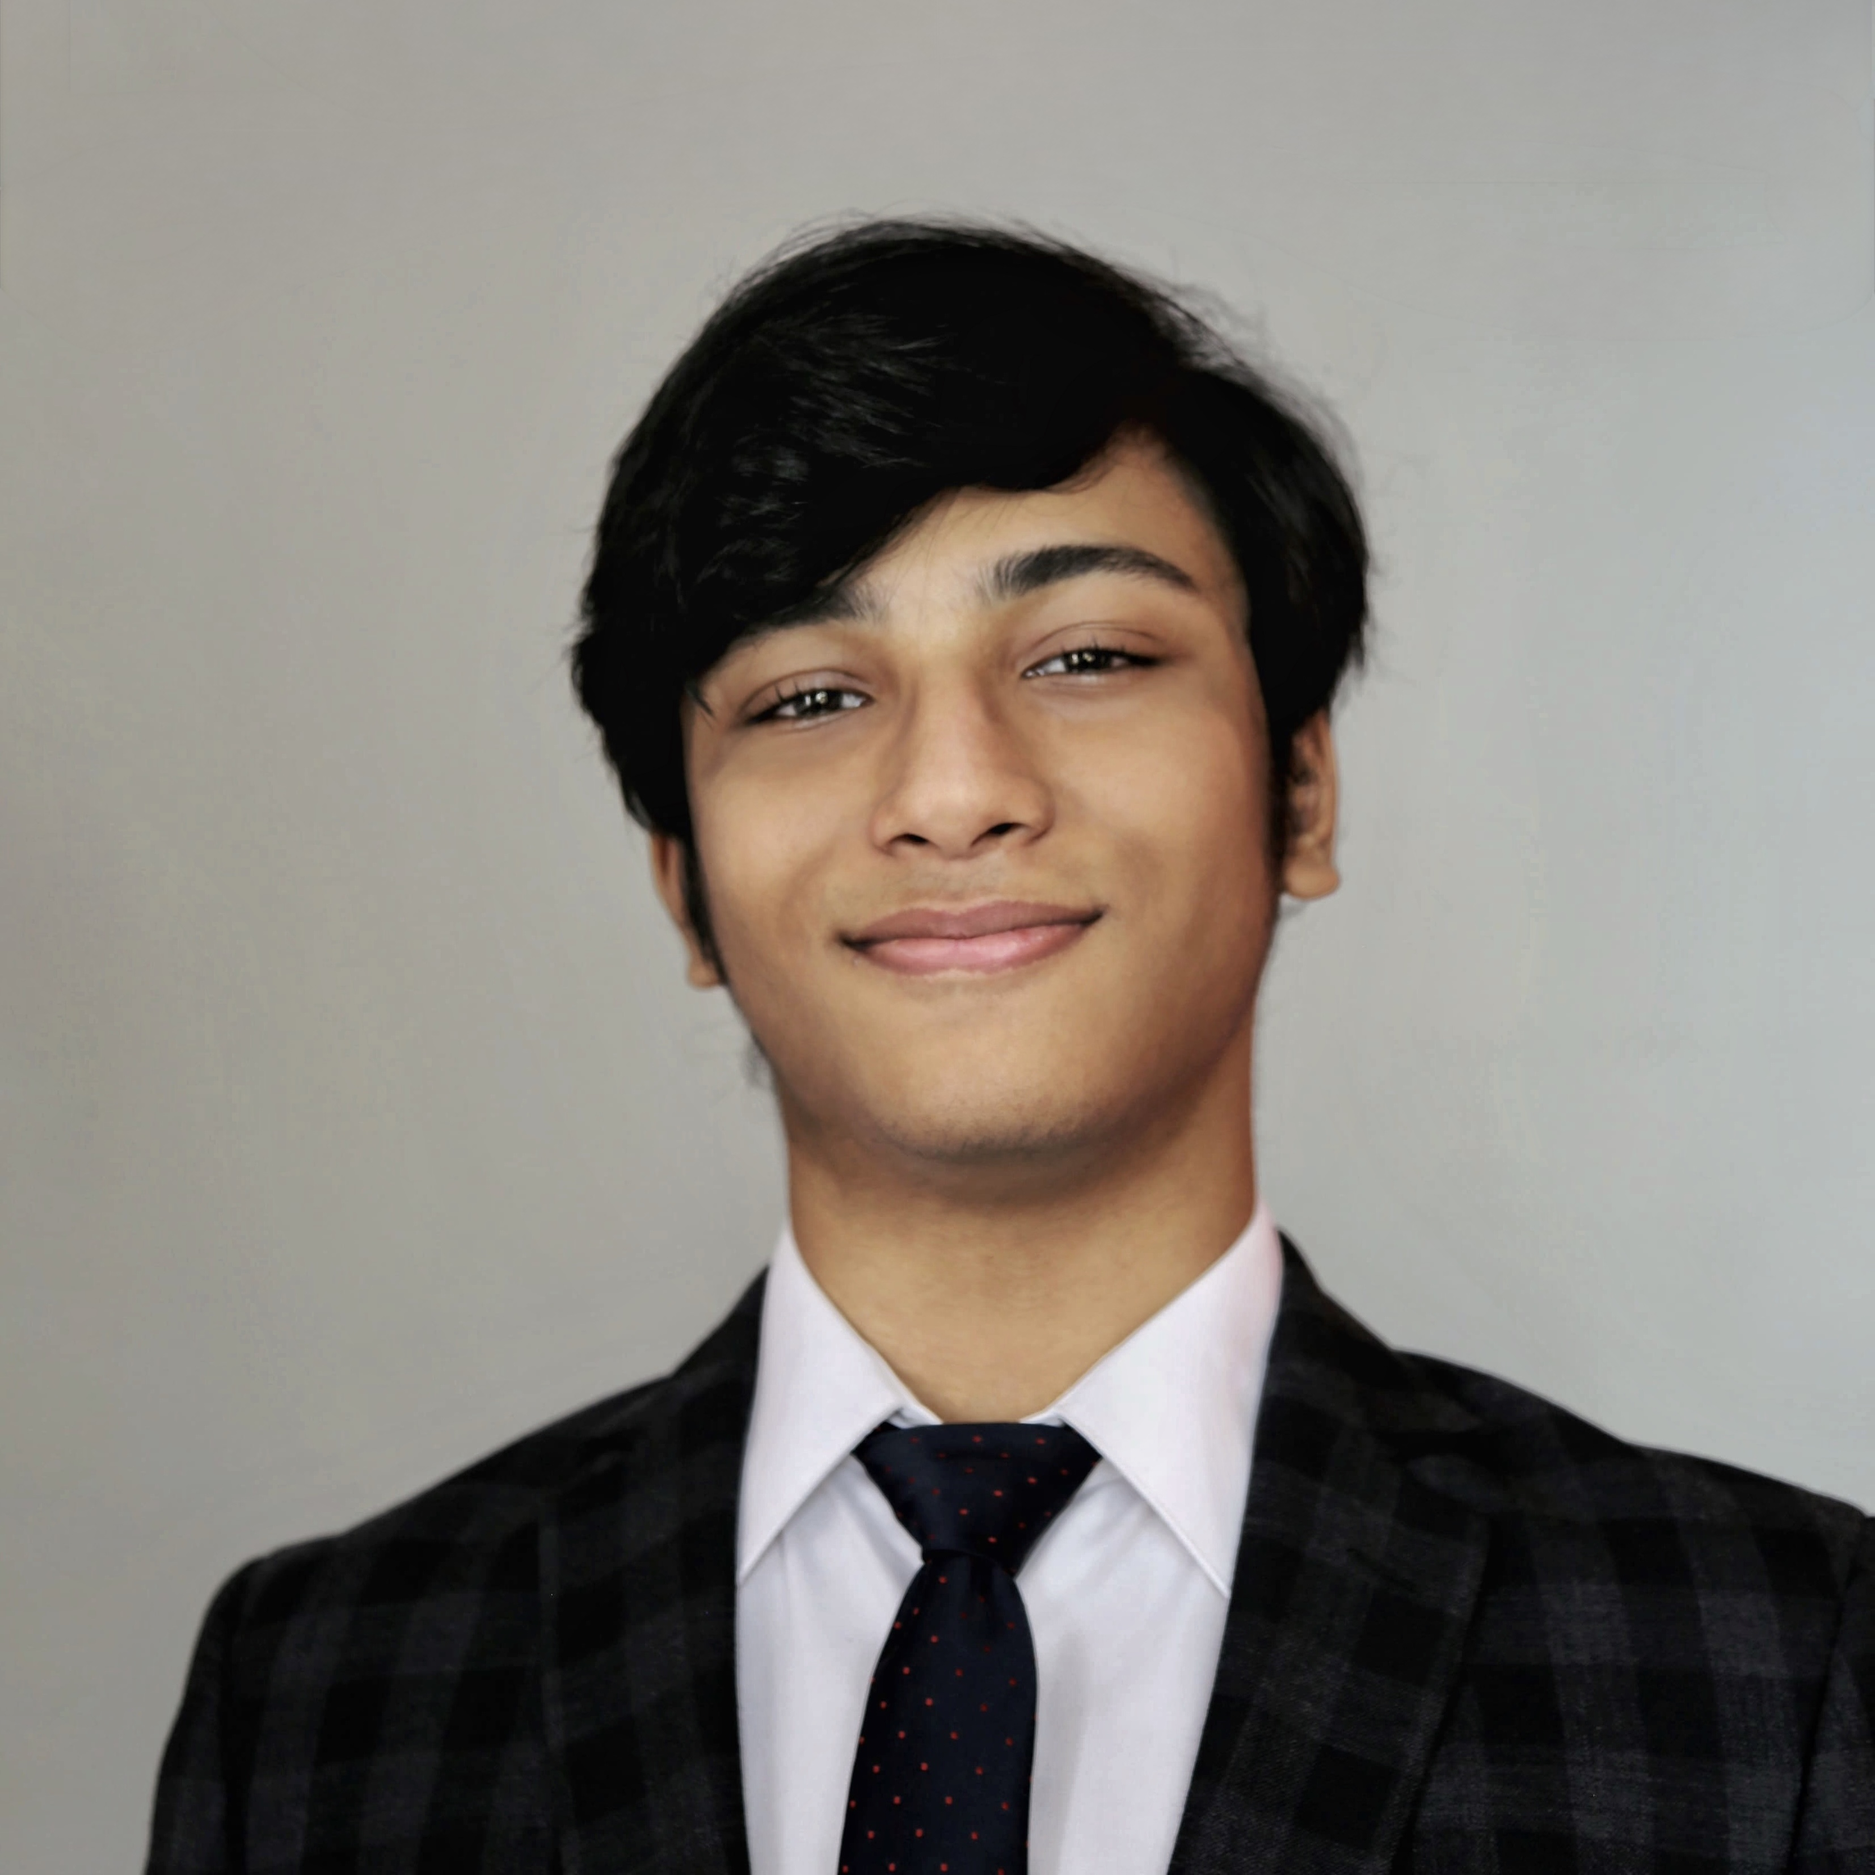
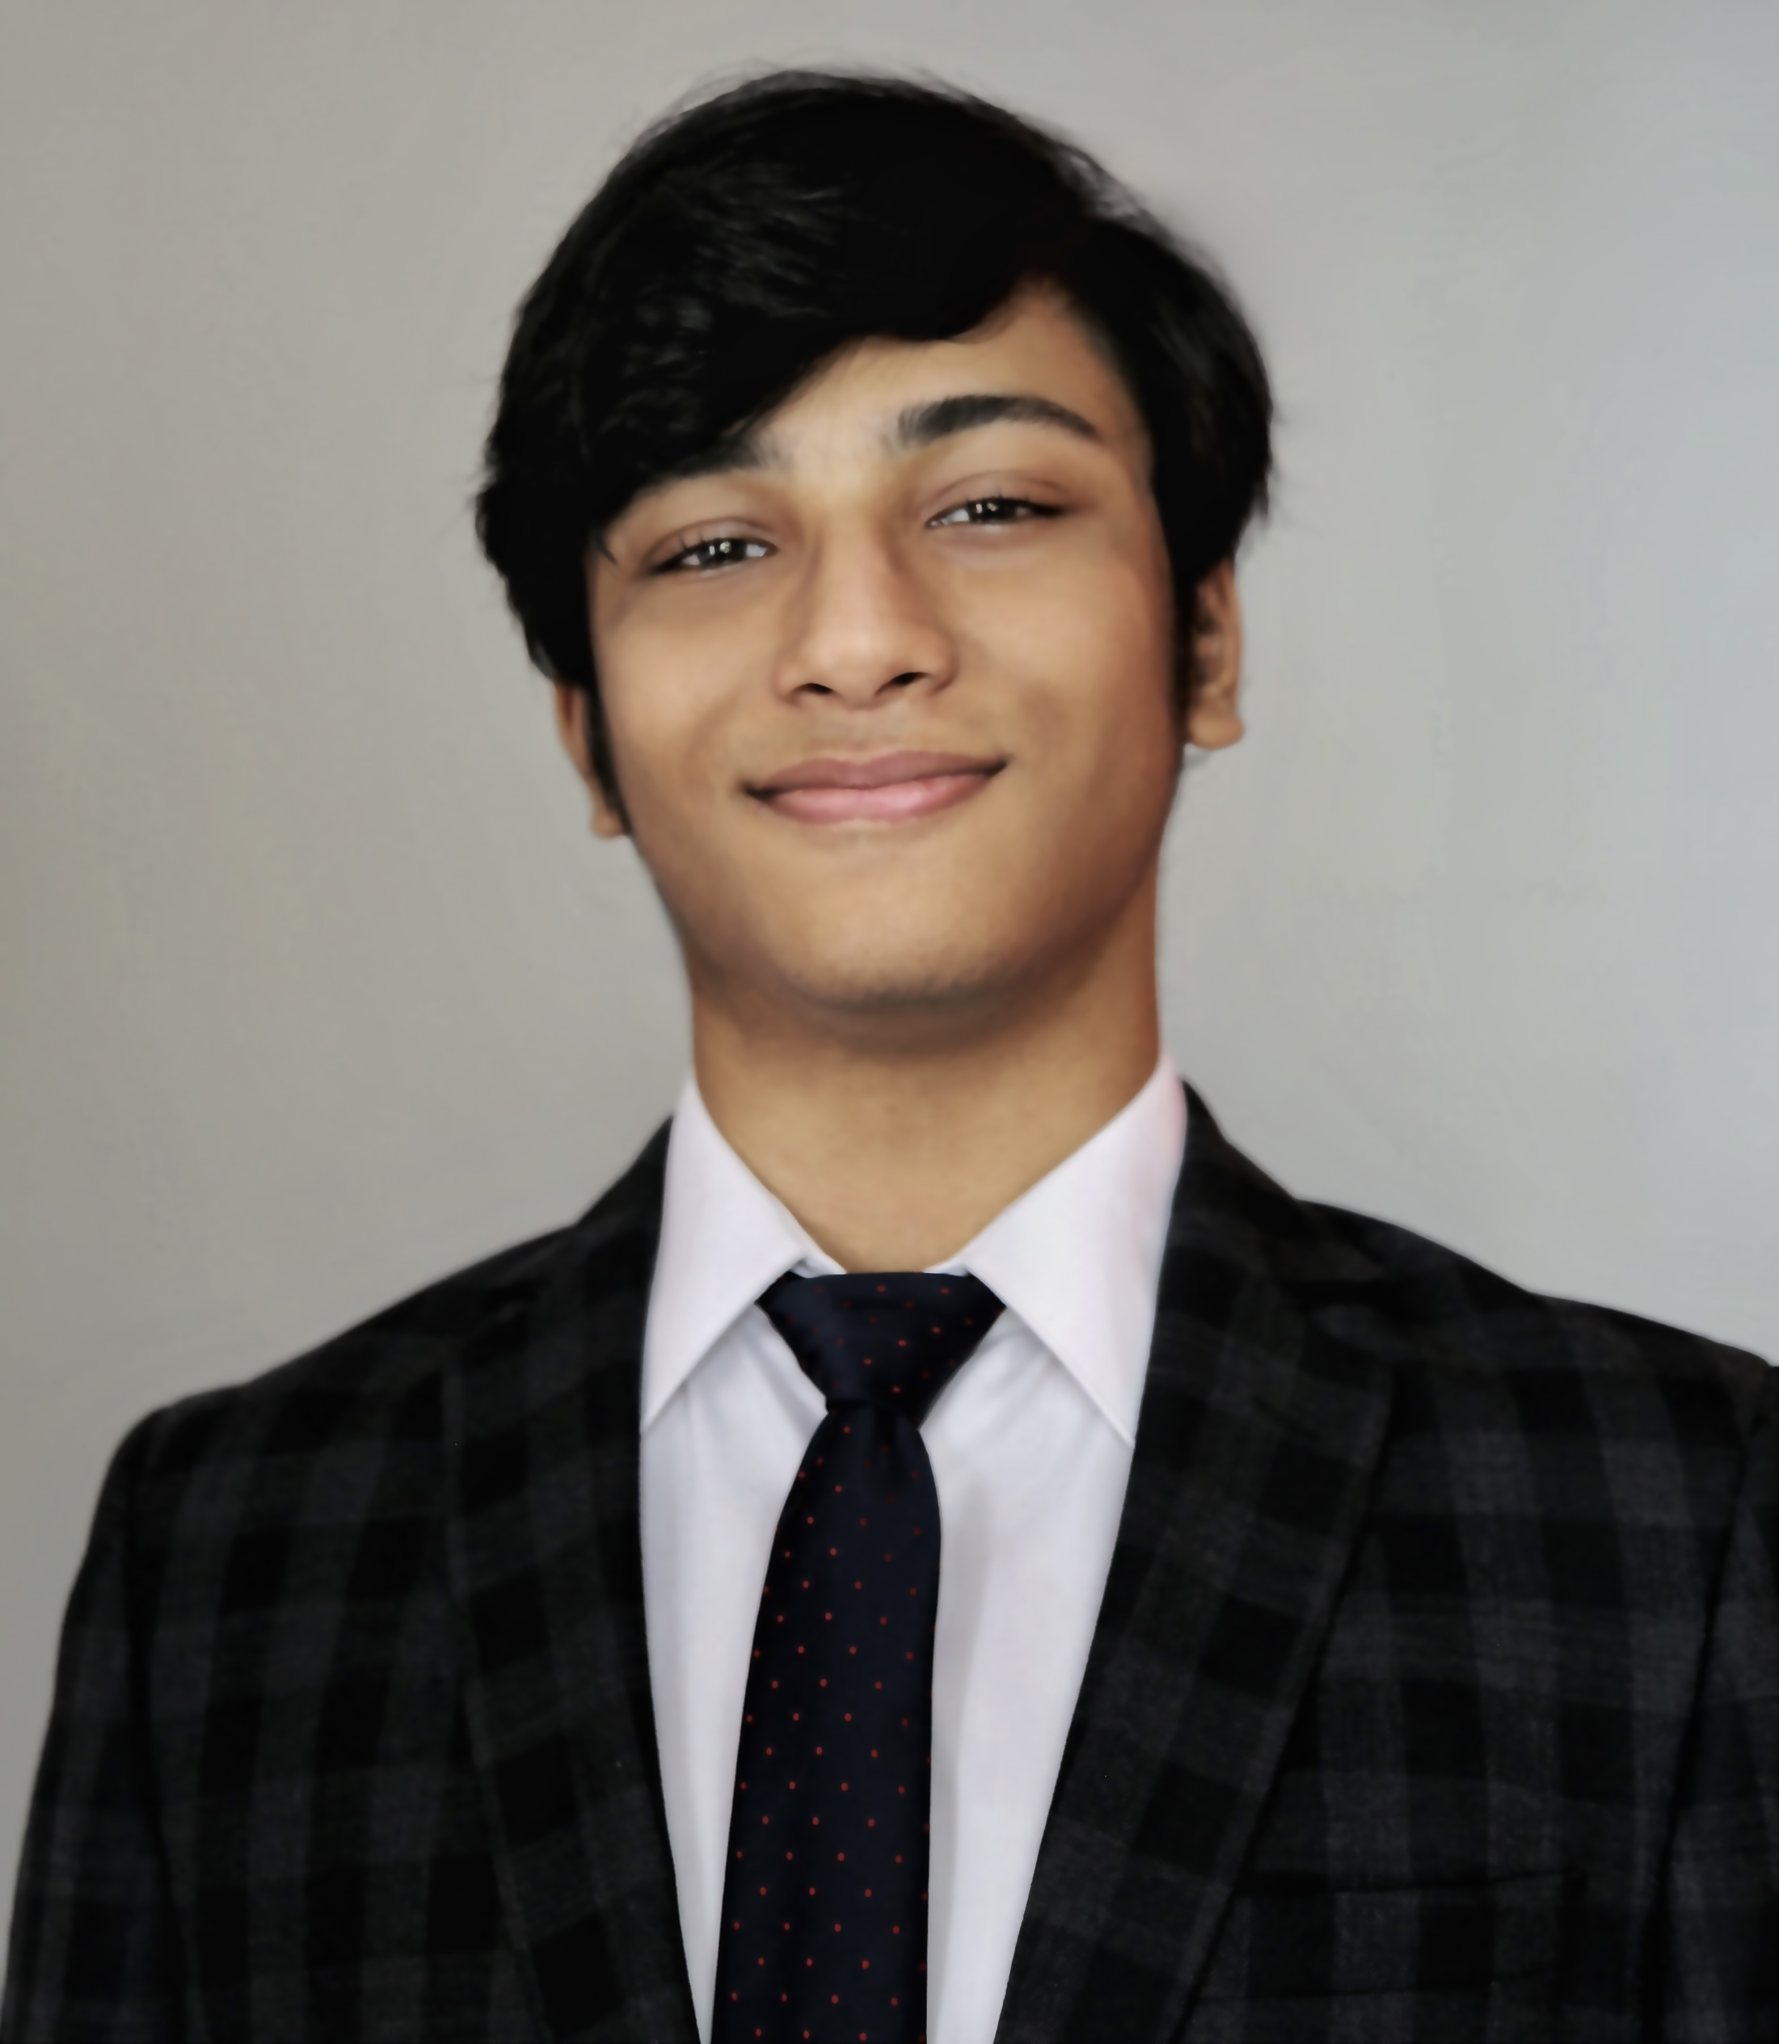
Commit

diff --git a/index.html b/index.html
@@ -81,6 +81,9 @@
 <section id="panel-profile" role="tabpanel" aria-labelledby="tab-profile" class="tabpanel is-active" tabindex="0">
 <div class="container">
     <section class="hero-grid" aria-labelledby="hero-title">
+        <aside class="hero-photo" aria-label="Portrait of Aayan Haider">
+            <img src="assets/images/profile.jpg" alt="Aayan Haider">
+        </aside>
         <div class="hero-content">
             <p class="eyebrow">Computer Science · Mathematics · Research</p>
             <h1 id="hero-title">Aayan Haider</h1>
@@ -92,14 +95,6 @@
                 <a href="mailto:aayanhaider112358@gmail.com">Email</a>
             </div>
         </div>
-        <aside class="profile-card" aria-label="Academic background">
-            <div class="profile-photo"><img src="assets/images/profile.jpg" alt="Aayan Haider"></div>
-            <div class="profile-section">
-                <span class="profile-label">Academic Background</span>
-                <p>B.Sc. Computer Science<br>Double Major in Mathematics</p>
-                <a href="#education" class="profile-link" data-tab="tab-education">View education →</a>
-            </div>
-        </aside>
     </section>
 
     <section class="landscape-section" aria-labelledby="landscape-title">
@@ -156,7 +151,7 @@
     <section class="selected-work">
         <div class="section-heading-row"><div><p class="eyebrow">Featured Work</p><h2>Selected Projects</h2></div><a href="#projects" class="section-link" data-tab="tab-projects">All projects →</a></div>
         <div class="selected-grid">
-            <article class="selected-card"><span class="work-label">2026</span><h3>Hierarchical Recursive Causal Feature Selection</h3><p>For Explainable Schizophrenia Prediction from DNA Methylation</p><div class="tag-list"><span>ML</span><span>Causal ML</span><span>Bioinformatics</span></div></article>
+            <article class="selected-card"><span class="work-label">2026</span><h3>Hierarchical Recursive Causal Feature Selection</h3><p>For Explainable Schizophrenia Prediction from DNA Methylation</p><div class="tag-list"><span>ML</span><span>Causal ML</span><span>Bioinformatics</span><span>Explainable AI</span></div></article>
         </div>
     </section>
 
@@ -228,7 +223,7 @@
 
 <section id="panel-education" role="tabpanel" aria-labelledby="tab-education" class="tabpanel" tabindex="0" hidden>
 <div class="container"><div class="section-heading"><div><p class="eyebrow">Education</p><h2>Academic Timeline</h2></div></div><div class="timeline">
-<article class="timeline-item"><div class="timeline-date">2022 — 2026</div><div class="timeline-content"><h3>B.Sc. in Computer Science</h3><p class="institution">BRAC University<p>Dhaka, Bangladesh</p><p><strong>Majors:</strong> Computer Science and Mathematics.</p><p> <strong>CGPA:</strong> 3.91 / 4.00.</p><p><strong>Undergraduate thesis title:</strong> <em>From DMRs to Disease Diagnosis: A Causal and Inferential Framework for Schizophrenia Using DNA Methylation</em></p><p><strong>Relevant coursework:</strong> Algorithms, Data Structures, Artificial Intelligence, Numerical Methods, Computer Graphics, Database Systems, Statistics \& Probability, Linear Algebra, Real Analysis, Graph Theory, Dynamical Systems, Numerical Analysis</p></div></article>
+<article class="timeline-item"><div class="timeline-date">2022 — 2026</div><div class="timeline-content"><h3>B.Sc. in Computer Science</h3><p class="institution">BRAC University<p>Dhaka, Bangladesh</p><p><strong>Majors:</strong> Computer Science and Mathematics.</p><p> <strong>CGPA:</strong> 3.91 / 4.00.</p><p><strong>Undergraduate thesis title:</strong> <em>From DMRs to Disease Diagnosis: A Causal and Inferential Framework for Schizophrenia Using DNA Methylation</em></p><p><strong>Relevant coursework:</strong> Algorithms, Data Structures, Artificial Intelligence, Numerical Methods, Computer Graphics, Database Systems, Statistics & Probability, Linear Algebra, Real Analysis, Graph Theory, Dynamical Systems, Numerical Analysis</p></div></article>
 <article class="timeline-item"><div class="timeline-date">2020 — 2022</div><div class="timeline-content"><h3>Cambridge International AS & A Level</h3><p class="institution">Scholastica</p><p>Dhaka, Bangladesh</p><p><strong>GPA</strong> 4.00 / 4.00</p></div></article>
 <article class="timeline-item"><div class="timeline-date">2018 — 2020</div><div class="timeline-content"><h3>Cambridge International O Level</h3><p class="institution">Scholastica</p><p>Dhaka, Bangladesh</p><p><strong>GPA</strong> 4.00 / 4.00</strong></p></div></article>
 </div></div>

diff --git a/assets/global/style.css b/assets/global/style.css
@@ -174,21 +174,40 @@ html.is-scrolling ::-webkit-scrollbar-thumb { background: var(--olive); }
 }
 
 
-.panels { padding: 72px 0 110px; }
+.panels { padding: 25px 0 110px; }
 .tabpanel { display: none; opacity: 1; transition: opacity .15s ease; }
 .tabpanel.is-active { display: block; }
 .tabpanel.is-fading { opacity: 0; }
 
-.hero-grid { display: grid; grid-template-columns: minmax(0, 1.45fr) minmax(260px, .7fr); align-items: center; gap: 90px; min-height: 620px; padding: 30px 0 95px; }
+.hero-grid {
+    display: grid;
+    grid-template-columns: 360px minmax(0, 600px);
+    align-items: center;
+    gap: 50px;
+
+    width: fit-content;
+    max-width: 100%;
+    margin: 0 auto;
+
+    min-height: 620px;
+    padding: 30px 0 95px;
+}
 .hero-content h1 { color: var(--ink); font-size: clamp(3.2rem, 7vw, 6.1rem); font-weight: 400; letter-spacing: -.065em; line-height: .94; white-space: nowrap; margin-bottom: 30px; }
 .hero-description { max-width: 650px; color: var(--muted); font-size: 1rem; line-height: 1.85; }
 .social-links { display: flex; flex-wrap: wrap; gap: 24px; margin-top: 27px; }
 .social-links a { color: var(--muted); font-size: .74rem; border-bottom: 1px solid transparent; transition: color .2s ease, border-color .2s ease; }
 .social-links a:hover { color: var(--olive); border-color: var(--olive); }
+.hero-photo {
+    width: min(100%, 380px);
+    justify-self: start;
+}
 
-.profile-card { width: min(100%, 330px); justify-self: end; padding: 32px; background: rgba(245,243,237,.34); border: 1px solid rgba(42,55,35,.14); border-radius: 16px; box-shadow: 0 24px 65px rgba(12,10,8,.055); }
-.profile-photo { width: 136px; height: 136px; margin-bottom: 30px; border-radius: 50%; overflow: hidden; background: var(--sage); }
-.profile-photo img { width: 100%; height: 100%; display: block; object-fit: cover; }
+.hero-photo img {
+    display: block;
+    width: 100%;
+    height: auto;
+    object-fit: contain;
+}
 .profile-section { padding-top: 22px; border-top: 1px solid rgba(42,55,35,.16); }
 .profile-label { display: block; margin-bottom: 7px; color: var(--muted); font-size: .63rem; font-weight: 700; letter-spacing: .13em; text-transform: uppercase; }
 .profile-section p { color: var(--ink); font-size: .94rem; line-height: 1.55; }

diff --git a/assets/research-landscape/research-landscape-data.js b/assets/research-landscape/research-landscape-data.js
@@ -53,6 +53,13 @@ const RESEARCH_LANDSCAPE = {
             y: 67
         },
 
+        {
+            id: "xai",
+            name: "Explainable AI",
+            type: "exploring",
+            x: 40,
+            y: 75
+        },
 
         /* ----------------------------------------------------
            EMERGING INTERESTS
@@ -100,17 +107,18 @@ const RESEARCH_LANDSCAPE = {
 
 
         /* ----------------------------------------------------
-           UNPUBLISHED WORK
+           INTERSECTING WORK
            ---------------------------------------------------- */
 
         {
-            id: "causal-ml-bioinformatics-ml",
+            id: "causal-ml-bioinformatics-ml-xai",
             name: "Intersecting Works",
             type: "work",
             fields: [
                 "Machine Learning",
                 "Causal ML",
-                "Bioinformatics"
+                "Bioinformatics",
+                "Explainable AI"
             ],
             x: 48,
             y: 47
@@ -156,23 +164,28 @@ const RESEARCH_LANDSCAPE = {
             target: "procedural-generation"
         },
 
-        /* Causal ML + ML + Bioinformatics */
+        /* Causal ML + ML + Bioinformatics + XAI */
         
         {
             source: "causal-ml",
-            target: "causal-ml-bioinformatics-ml"
+            target: "causal-ml-bioinformatics-ml-xai"
         },
         
         {
             source: "machine-learning",
-            target: "causal-ml-bioinformatics-ml"
+            target: "causal-ml-bioinformatics-ml-xai"
         },
         
         {
             source: "bioinformatics",
-            target: "causal-ml-bioinformatics-ml"
+            target: "causal-ml-bioinformatics-ml-xai"
         },
         
+        {
+            source: "xai",
+            target: "causal-ml-bioinformatics-ml-xai"
+        },
+
         /* CG + Animation */
 
         {

diff --git a/assets/projects/projects-data.js b/assets/projects/projects-data.js
@@ -9,7 +9,8 @@ var PROJECTS = [
         fields: [
             "Machine Learning",
             "Causal ML",
-            "Bioinformatics"
+            "Bioinformatics",
+            "Explainable AI",
         ],
 
         tools: [
